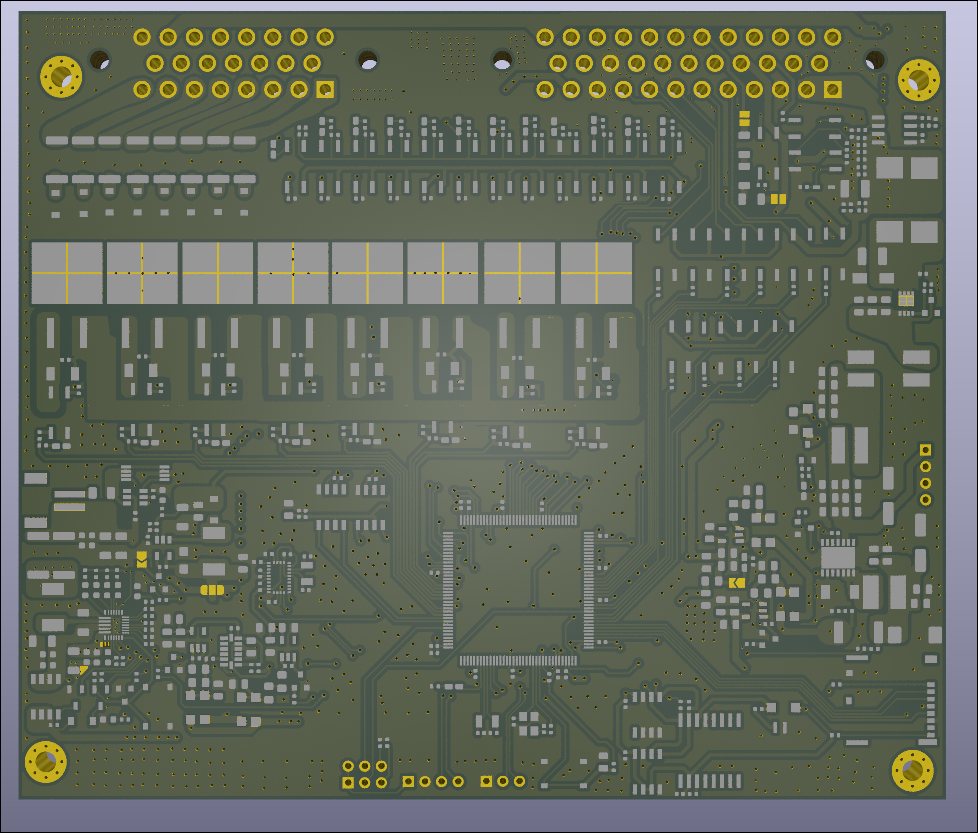
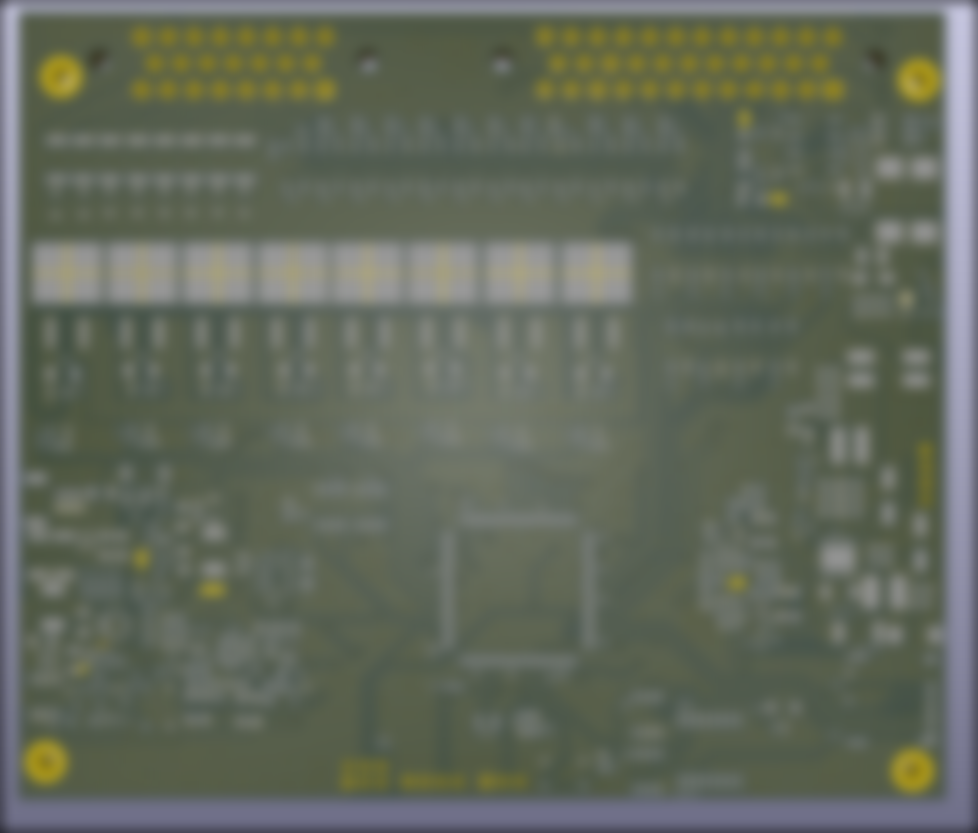
feat: Add new P1-VCU images, update existing ones, and implement a privacy blur feature for sensitive PCB designs.

diff --git a/pcb-modal.js b/pcb-modal.js
@@ -6,7 +6,8 @@ const pcbData = {
         subtitle: '4-Layer PCB for Electric Vehicle',
         githubLink: '',
         images: [
-            'Images/P1-VCU-Front-View.jpg',
+            'Images/P1-VCU-Real-Image.png',
+            'Images/P1-VCU-Board-Assembly.png',
             'Images/P1-VCU-Board.png',
             'Images/P1-VCU-Back.png',
             'Images/P1-VCU-3D-View.png',
@@ -225,7 +226,16 @@ function updateGallery() {
     const images = currentPCB.images;
 
     // Update main image
-    document.getElementById('pcbMainImage').src = images[currentImageIndex];
+    const mainImg = document.getElementById('pcbMainImage');
+    mainImg.src = images[currentImageIndex];
+
+    // Apply privacy blur to sensitive images
+    // Apply privacy blur to sensitive images (All VCU images)
+    if (currentPCB === pcbData['pcb-1']) {
+        mainImg.classList.add('privacy-blur');
+    } else {
+        mainImg.classList.remove('privacy-blur');
+    }
 
     // Update counter
     document.getElementById('currentImageIndex').textContent = currentImageIndex + 1;

diff --git a/pcb-designs.html b/pcb-designs.html
@@ -176,8 +176,7 @@
                 <!-- PCB Design Template 1 -->
                 <div class="pcb-card pcb-clickable" data-pcb-id="pcb-1">
                     <div class="pcb-image-container">
-                        <!-- Replace this with your actual PCB image -->
-                        <img src="Images/P1-VCU-Board.png" alt="PCB Board Design" class="pcb-image">
+                        <img src="Images/P1-VCU-Real-Image.png" alt="PCB Board Design" class="pcb-image privacy-blur">
                         <div class="pcb-overlay">
                             <i class="fas fa-search-plus"></i>
                         </div>

diff --git a/style.css b/style.css
@@ -1807,3 +1807,15 @@ body {
         width: 100%;
     }
 }
+
+/* Privacy Blur - Images are permanently blurred on disk */
+.privacy-blur {
+    /* Kept for cursor indication and protection */
+    cursor: not-allowed;
+    user-select: none;
+    -webkit-user-drag: none;
+}
+
+.privacy-blur:hover {
+    /* No additional filter needed */
+}
